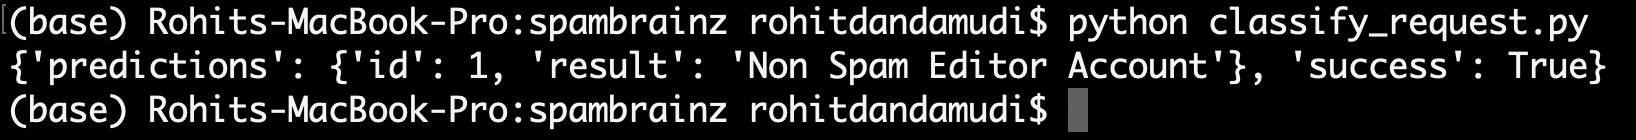
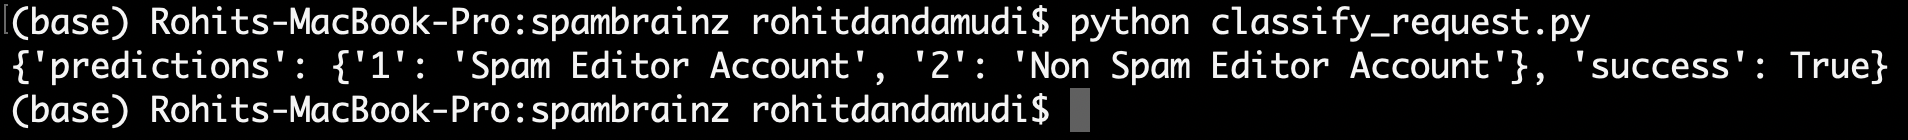
Add multiple editor classify code
- Updated routes.py, classify.py, classify_request.py to accommodate
    multiple editor accounts at once.
- Corrected model learning rate.
- Updated classify_request result image.

Changed region(s): [[0.0, 0.3429, 0.9976, 0.6], [0.0, 0.0286, 0.9664, 0.3143], [0.0, 0.6286, 0.6858, 0.9429]]

diff --git a/spambrainz/app/classify.py b/spambrainz/app/classify.py
@@ -10,7 +10,6 @@ model = model
 
 # initialize constants used for redis server
 EDITOR_QUEUE = "editor_queue"
-BATCH_SIZE = 1
 SERVER_SLEEP = 0.25
 CLIENT_SLEEP = 0.25
 
@@ -21,45 +20,47 @@ def string_to_datetime(string_dt):
     return datetime.datetime(*[int(v) for v in string_dt.replace('T', '-').replace(':', '-').split('-')])
 
 # function used to retrive editor_data from redis and store the results back 
-def classify_process():
+def classify_process(size):
     
     print("* Loading model...")
     global model
     model = load_model('static/models/weights/current_lodbrok.h5')
     print("* Model loaded")
 
+    BATCH_SIZE = size
+
     # All the editor detials are retrived here from redis
     queue = db.lrange(EDITOR_QUEUE, 0, BATCH_SIZE - 1)
-    editorIDs = []
     
-    queue = json.loads(queue[0])
-    editorIDs.append(queue["id"])
     
-    # changing string datetime to datetime objects
-    queue["birth_date"] = string_to_datetime(queue["birth_date"])
-    queue["member_since"] = string_to_datetime(queue["member_since"])
-    queue["email_confirm_date"] = string_to_datetime(queue["email_confirm_date"])
-    queue["last_updated"] = string_to_datetime(queue["last_updated"])
-    queue["last_login_date"] = string_to_datetime(queue["last_login_date"])
-    
-    # preprocessing the given input to get prediction
-    queue = preprocess_editor(queue)
+    for q in queue:
 
-    # defining the structure
-    queue = np.array([queue])
+        q = json.loads(q)
+        editor_id = q["id"]
     
-    # only data from index 1 is considered while predicting, thus 
-    # not taking the spam value into consideration
-    predict_data = {
-        "main_input": np.array(queue[:,1:10]),
-        "email_input": np.array(queue[:,10]),
-        "website_input": np.array(queue[:,11]),
-        "bio_input": np.array(queue[:,12:]),
-    }
-
-    # check to see if we need to process the batch
-    if len(editorIDs) > 0:
+        # changing string datetime to datetime objects
+        q["birth_date"] = string_to_datetime(q["birth_date"])
+        q["member_since"] = string_to_datetime(q["member_since"])
+        q["email_confirm_date"] = string_to_datetime(q["email_confirm_date"])
+        q["last_updated"] = string_to_datetime(q["last_updated"])
+        q["last_login_date"] = string_to_datetime(q["last_login_date"])
         
+        # preprocessing the given input to get prediction
+        q = preprocess_editor(q)
+
+        # defining the structure
+        q = np.array([q])
+        
+        # only data from index 1 is considered while predicting, thus 
+        # not taking the spam value into consideration
+        predict_data = {
+            "main_input": np.array(q[:,1:10]),
+            "email_input": np.array(q[:,10]),
+            "website_input": np.array(q[:,11]),
+            "bio_input": np.array(q[:,12:]),
+        }
+
+    
         result = model.predict(x = [
             predict_data["main_input"], 
             predict_data["email_input"],
@@ -83,10 +84,10 @@ def classify_process():
         prediction = json.dumps(prediction)        
 
         #storign the result in redis
-        db.set(str(editorIDs[0]), prediction)
-
-        # remove the set of editor from our queue
-        db.ltrim(EDITOR_QUEUE, len(editorIDs), -1)
+        db.set(str(editor_id), prediction)
+    
+    # remove the set of editor from our queue
+    db.ltrim(EDITOR_QUEUE, size, -1)
 
   
 

diff --git a/spambrainz/app/routes.py b/spambrainz/app/routes.py
@@ -21,32 +21,49 @@ def predict():
     if flask.request.method == "POST":
         if flask.request.json:           
             
-            editor_account = flask.request.json
+            editor_accounts = flask.request.json
 
-            # taking editor ID to get the results from redis
-            editor_id = editor_account["id"]
+            # taking editor IDs to get the results from redis later
+            editor_ids = []
 
-            # convert missing parts to None to be compatible with preprossing
-            if(editor_account["area"]  is ''):
-                editor_account["area"] = None
-            if(editor_account["bio"]  is ''):
-                editor_account["bio"] = None
+            for key, editor_account in editor_accounts.items():
+                editor_ids.append(editor_account["id"])
+
+                # convert missing parts to None to be compatible with preprossing
+                if(editor_account["area"]  is ''):
+                    editor_account["area"] = None
+                if(editor_account["bio"]  is ''):
+                    editor_account["bio"] = None
             
-            editor_account = dict(editor_account)
-           
-            # the editor accounts are pushed into the redis queue
-            db.rpush(EDITOR_QUEUE, json.dumps(editor_account))
+            number_of_editors = len(editor_ids)
+        
+
+                
+            for i in range(0,number_of_editors):
+
+                # the editor accounts are pushed into the redis queue
+                db.rpush(EDITOR_QUEUE, json.dumps(editor_accounts[str(i)]))
+            
 
             # the classification model is called 
-            classify_process()      
+            classify_process(number_of_editors)      
 
             # the classification done is retrived form redis
-            output = db.get(editor_id)
-            output =  json.loads(output)
-            output["id"] = editor_id
-            if output is not None:
-                data["predictions"] = output              
-                db.delete(editor_id)                    
+            if number_of_editors > 0:
+
+                data["predictions"] = {}
+
+                for editor_id in editor_ids:
+                    output = db.get(editor_id)
+                    output =  json.loads(output)                   
+                    output["id"] = editor_id
+                    if output["result"] is not None:
+                        #add results under prediction
+                        data["predictions"][output["id"]] = output["result"]
+
+                    # remove result form redis                                 
+                    db.delete(editor_id)                    
+                
                 data["success"] = True
 
 
@@ -87,7 +104,7 @@ def train():
 
             # preprocessing the given data for the model to train on
             for i in range(0,number_of_editors):
-                print(int(editor_accounts[str(i)]['verdict']))
+                # print(int(editor_accounts[str(i)]['verdict']))
                 preprocess_data[i] = preprocess_editor(editor_accounts[str(i)], int(editor_accounts[str(i)]['verdict']))
 
             # retraining the model with new data

diff --git a/spambrainz/classify_request.py b/spambrainz/classify_request.py
@@ -10,7 +10,9 @@ import datetime
 KERAS_REST_API_URL = "http://localhost:4321/predict"
 
 # set spam editor account details to classify by the model
-editor_account = {    
+editor_account = {}
+
+editor_account[0]= {    
     'id' : 1,
     'email': 'ghhfbca@porsh.net',
     'website': 'http://www.kisaiya.co.uk',
@@ -24,6 +26,23 @@ editor_account = {
     'last_updated': datetime.datetime(2000, 9, 2, 7, 21, 8, 5).strftime('%Y-%m-%dT%H:%M:%S'),
     'last_login_date': datetime.datetime(2000, 9, 2, 9, 21, 38, 5).strftime('%Y-%m-%dT%H:%M:%S')    
           
+}
+
+# add non spam editor account details
+
+editor_account[1] = {
+    'id': 2,
+    'email': 'dckckaj@msn.com',
+    'website': 'http://valeur-dachat.fr',
+    'bio': 'enhance card gift leisure boost transfer detail layer mechanic gauge tomato repair rather infant laptop document wool december retreat behave sunset innocent what spray cake mother cart fall smart essay lyrics you observe battle film raccoon garment boss cook prize dumb police define outer shuffle glad engage stool chair recall depart use material yellow next life shoe print luxury isolate elegant civil bullet argue genuine swear allow unfold fortune region glory hour rule ',
+    'area': None,
+    'privs': 0,
+    'gender': None,
+    'birth_date': None,
+    'member_since': datetime.datetime(2004, 10, 13, 11, 3, 46, 5).strftime('%Y-%m-%dT%H:%M:%S'),
+    'email_confirm_date': datetime.datetime(2004, 10, 14, 9, 38, 45, 5).strftime('%Y-%m-%dT%H:%M:%S'),
+    'last_updated': None,
+    'last_login_date': None
 }
 
 # submit the request to classify the given data by lodbrok model to /predict endpoint 

diff --git a/spambrainz/app/train.py b/spambrainz/app/train.py
@@ -69,7 +69,7 @@ def retrain_model(training_data):
 
     # set model optimizer learning rate to a smaller static value to avoid 
     # cateshtrophic forgetting
-    m.optimizer.lr = 0.01
+    m.optimizer.lr = 0.001
 
     # saving the previous weights before training for future reference
     m.save('static/models/weights/previous_lodbrok.h5')
